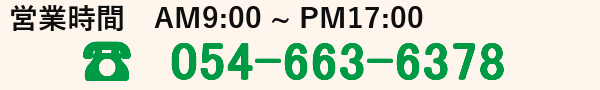
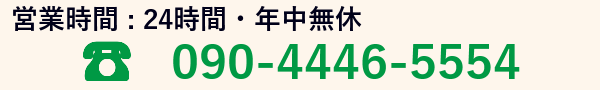
2023.8.18

Changed region(s): [[0.27, 0.4667, 0.87, 0.8889], [0.0, 0.0444, 0.72, 0.3556], [0.3, 0.8667, 0.36, 0.8889]]

diff --git a/js/plugins/HyperLink2.js b/js/plugins/HyperLink2.js
@@ -49,7 +49,7 @@
 			window.RPGAtsumaru.popups.openLink(url);
 		} else if (this._errorPrinter) {
 			//var link = '<a href="' + url + '" target="new" id="HyperLink" style="color:#000000;font-size: 5vw;background-color: #c8e0a4;text-decoration: none;position: absolute;top: 260%;margin-left: auto;margin-right: auto;height: 5vh;" rel="noopener">' + title + '</a>';
-			var link = '<a href="tel:09042292545"><img src="tel_banner.jpg" alt="電話でのお問合せ　☎054-622-4929 スマートフォンをご利用の場合、こちらをタップすることで電話をかけることができます" style="color:#000000;font-size: 5vw;background-color: #c8e0a4;text-decoration: none;position: absolute;top: 260%;left: 5%;height: 12vh;" rel="noopener"></a>';
+			var link = '<a href="tel:09044465554"><img src="tel_banner.jpg" alt="電話でのお問合せ　☎090-4446-5554 スマートフォンをご利用の場合、こちらをタップすることで電話をかけることができます" style="color:#000000;font-size: 5vw;background-color: #c8e0a4;text-decoration: none;position: absolute;top: 260%;left: 5%;height: 12vh;" rel="noopener"></a>';
 			this._errorPrinter.innerHTML = this._makeErrorHtml(description, link);
 			var a = document.getElementById('HyperLink');
 
